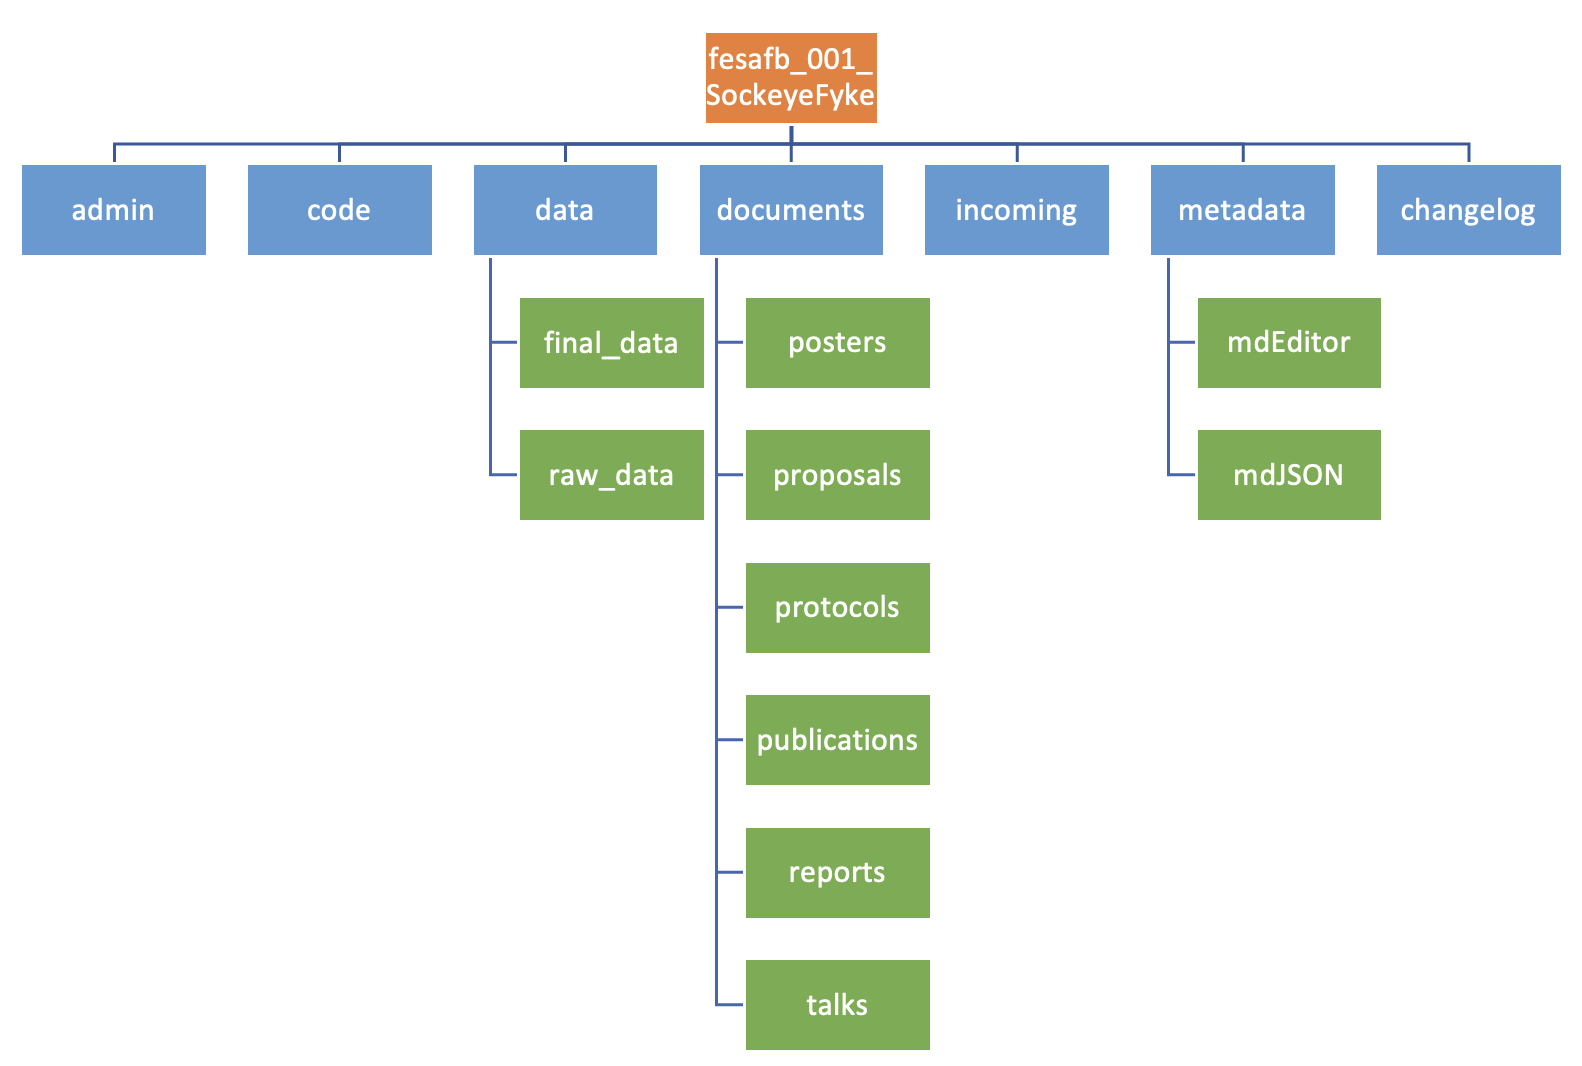
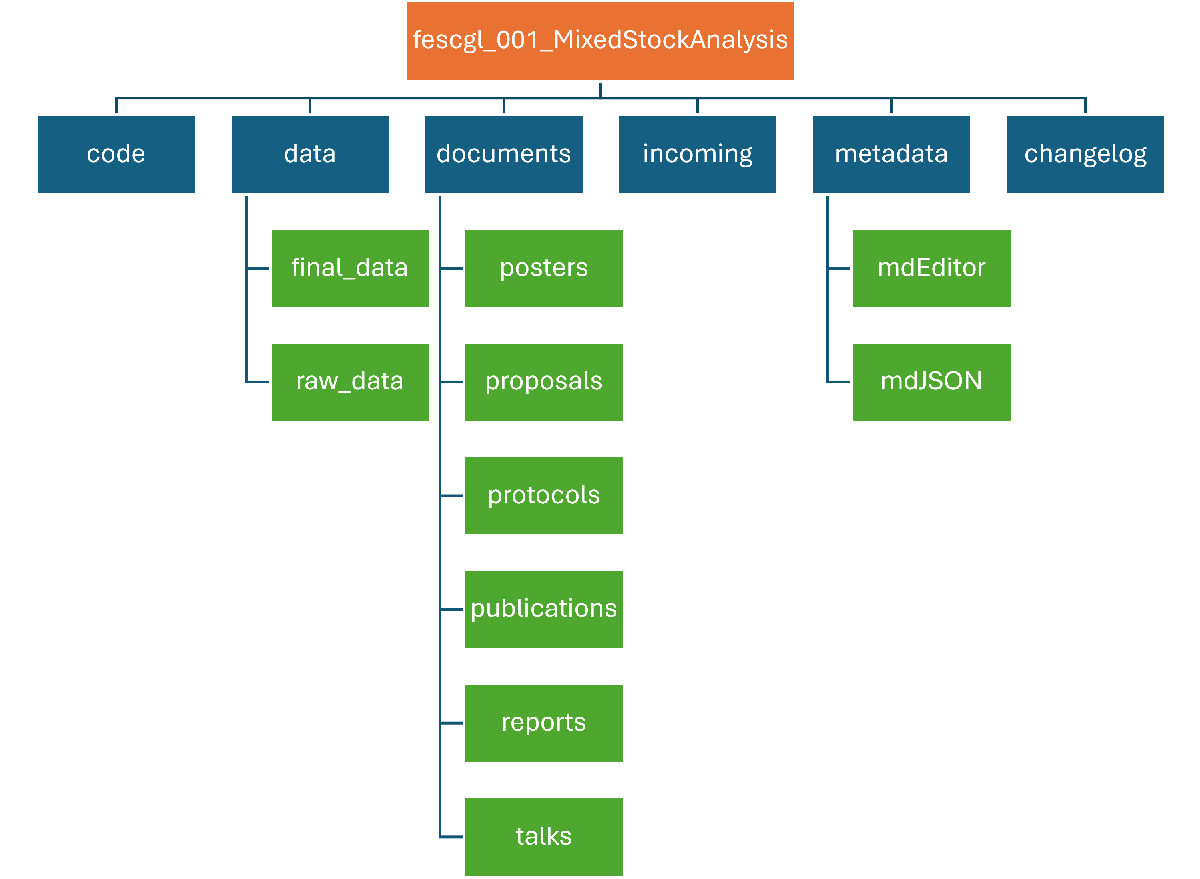
Updated images and order pages
- Updated example images showing directory layout
- Manually ordered pages in /storage-options

Changed region(s): [[0.0, 0.0, 0.9867, 0.6143], [0.37, 0.7679, 0.5858, 1.0], [0.37, 0.6451, 0.5858, 0.7372]]

diff --git a/storage-options/obtaining-rdr-folder.md b/storage-options/obtaining-rdr-folder.md
@@ -1,3 +1,7 @@
+---
+order: 2
+---
+
 ## Obtaining Your RDR Project Folder
 
 Completion and data manager approval of your [data management plan](/planning/why-data-planning.md) will trigger the creation of a RDR folder for your project. Your data manager will create the project folder and include a link to it in your data management plan for your reference.
@@ -5,7 +9,7 @@ Completion and data manager approval of your [data management plan](/planning/wh
 The link to your project's RDR folder is broken down as follows:
 
 
-![Example RDR link for an FES project](</assets/rdr-path.png>)
+![Example RDR link for a FES project](</assets/rdr-path.png>)
 
 ## Project folder naming
 
@@ -24,7 +28,7 @@ Other than the above mandatory requirements, the structure of the project direct
 ## Organization of Your RDR Project Folder
 
 
-![Example branching tree of sub-folders in "fesafb\_001\_SockeyeFyke" folder](</assets/rdr-tree-fes-ex.png>)
+![Example branching tree of sub-folders in "ffescgl_001_MixedStockAnalysis" folder](</assets/rdr-tree-fes-ex.png>)
 
 
 ### Administration
@@ -60,11 +64,11 @@ Documents generated by the project should be filed in this folder, and they can 
 
 ### Incoming
 
-This folder is used to add project data, documents, and metadata that are ready to be archived in the RDR. Data Steward(s) have write permissions and should add data after they have been reviewed for metadata completeness. The projects Data Custodian will then properly organize the files that were dropped into this folder. Projects may use alternate methods for archiving data in the RDR (e.g., email data to their data manager).
+This folder is used to add project data, documents, and metadata that are ready to be archived in the RDR. Data Steward(s) have write permissions and should add data after they have been reviewed for metadata completeness. The project's Data Custodian will then properly organize the files that were dropped into this folder. Projects may use alternate methods for archiving data in the RDR (e.g., email data to their data manager).
 
 
 ::: {.callout-note}
-All files should be saved in an [open format](broken-reference) and abide by recommended [file naming conventions](broken-reference) prior to being added to the "incoming" folder.
+All files should be saved in an [open format](/acquire/common-data-types/open-formats.md) and abide by recommended [file naming conventions](/acquire/file-organization-and-best-practices/best-practices-in-naming-conventions.md) prior to being added to the "incoming" folder.
 :::
 
 

diff --git a/CHANGELOG.md b/CHANGELOG.md
@@ -2,16 +2,23 @@
 
 Updates made to the Data Management User Guide
 
-### in progress
+### 20260625
 
 - Add /other-resources directory
 - Add /acquire/index.md
-
+- Added /assets/source to store files used to create images
+- Added rdr-tree-examples.pptx to /assets/source
+- Added front matter "order" parameter to files in /storage-options:
+  - obtaining-rdr-folder.md
+  - rdr-program-codes.md
+  - using-the-regional-data-repository.md
 - Fix broken links in workflow.md
 - Fix broken links in /alaska-data-management-101/alaska-regional-data-repository.md
 - Minor content updates to CONTRIBUTING.md
 - Minor content updates to /alaska-data-management-101/alaska-regional-data-repository.md
 - Minor content updates to /storage-options\using-the-regional-data-repository.md
+- Updated image rdr-tree-fes-ex.png use fescgl_001_MixedStockAnalysis project ([issue #19](https://github.com/USFWS/ak-dm-guide/issues/19))
+- Updated image rdr-path.png to use fescgl_001_MixedStockAnalysis project ([issue #19](https://github.com/USFWS/ak-dm-guide/issues/19))
 
 
 ### 20260616

diff --git a/storage-options/rdr-program-codes.md b/storage-options/rdr-program-codes.md
@@ -1,3 +1,7 @@
+---
+order: 3
+---
+
 ## Program and Sub-program Codes 
 
 This page is the Alaska Region Data Stewardship Team (DST) registry of program and sub-program codes that are used to create data repository names as described by the Regional Data Repository [use guidelines](/storage-options/using-the-regional-data-repository). 

diff --git a/storage-options/using-the-regional-data-repository.md b/storage-options/using-the-regional-data-repository.md
@@ -1,3 +1,7 @@
+---
+order: 1
+---
+
 # Using the Regional Data Repository
 
 The Alaska Regional Data Repository (RDR) is a centralized server dedicated to the long-term storage of regional projects and their products. It serves as an accessible and secure digital archive that contains authoritative copies of a project’s data, documents, and metadata. Your program’s data manager and technician are responsible for maintaining the RDR. The Alaska Region Data Stewardship Team (DST) sponsored the creation of the RDR and endorsed its use for the long-term preservation of regional projects and their products More information about the RDR is provided by the DST publication  [Alaska Regional Data Repository: purpose, organization, and management](https://iris.fws.gov/APPS/ServCat/Reference/Profile/150400).